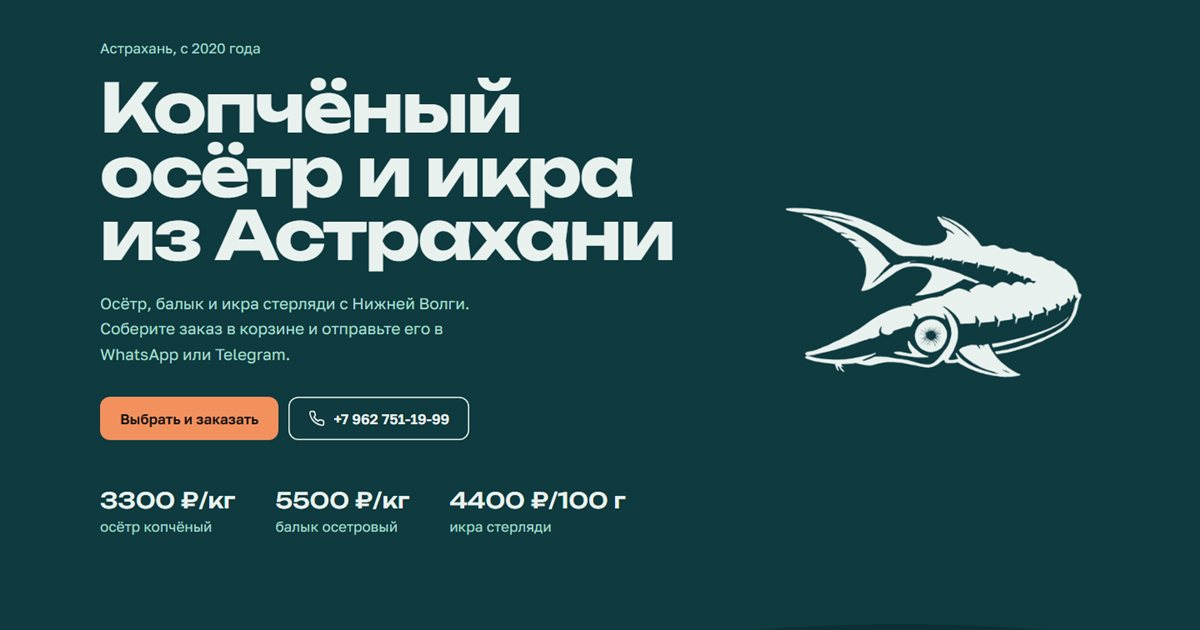
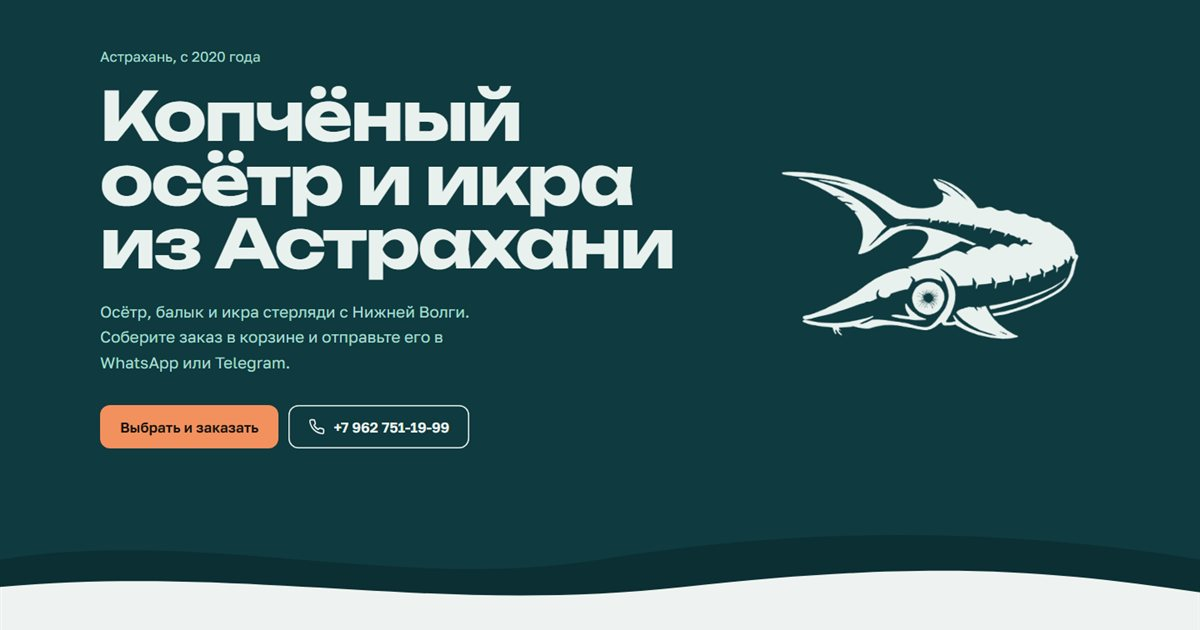
Убран крупный номер и цены с первого экрана, блок «Заказ уже написан за вас» с живым окном чата

diff --git a/styles.css b/styles.css
@@ -10,6 +10,9 @@
   --color-line: #2c5a5e;
   --color-line-ink: #cfdcd8;
   --color-accent: #f2915e;    /* цвет балыка: главная кнопка и цены */
+  --color-on-accent: #1a1410; /* текст на акценте */
+  --color-photo: #efe9df;     /* подложка под фото, пока грузится */
+  --color-read: #2f8f7a;      /* галочки «прочитано» в окне чата */
   --font-display: "Unbounded", system-ui, sans-serif;
   --font-body: "Golos Text", system-ui, sans-serif;
   --space-section: clamp(72px, 10vw, 140px);
@@ -32,7 +35,7 @@ button { font: inherit; color: inherit; }
 /* Кнопки */
 .btn { display: inline-flex; align-items: center; justify-content: center; gap: 10px; min-height: 52px; padding: 0 24px; border: 0; border-radius: var(--radius); font-weight: 600; text-decoration: none; cursor: pointer; transition: background-color .15s var(--ease), transform .15s var(--ease); }
 .btn:active { transform: scale(.98); }
-.btn--accent { background: var(--color-accent); color: #1a1410; }
+.btn--accent { background: var(--color-accent); color: var(--color-on-accent); }
 .btn--accent:hover { background: #f6a77b; }
 .btn--ghost { background: transparent; color: inherit; box-shadow: inset 0 0 0 1.5px currentColor; }
 .btn--ghost:hover { background: rgba(233, 241, 238, .08); }
@@ -49,7 +52,7 @@ button { font: inherit; color: inherit; }
 .nav a:hover { color: var(--color-text); }
 .cart-btn { display: inline-flex; align-items: center; gap: 8px; min-height: 44px; padding: 0 16px; border: 0; border-radius: 999px; background: rgba(233, 241, 238, .1); cursor: pointer; transition: background-color .15s; }
 .cart-btn:hover { background: rgba(233, 241, 238, .18); }
-.cart-btn__count { min-width: 22px; height: 22px; padding: 0 6px; border-radius: 11px; background: var(--color-accent); color: #1a1410; font: 600 13px/22px var(--font-body); text-align: center; }
+.cart-btn__count { min-width: 22px; height: 22px; padding: 0 6px; border-radius: 11px; background: var(--color-accent); color: var(--color-on-accent); font: 600 13px/22px var(--font-body); text-align: center; }
 .cart-btn__count.bump { animation: bump .3s var(--ease); }
 @keyframes bump { 50% { transform: scale(1.25); } }
 
@@ -64,8 +67,6 @@ button { font: inherit; color: inherit; }
 .hero h1 { font-size: clamp(38px, 5.6vw, 84px); max-width: 14ch; letter-spacing: -.03em; }
 .hero__lead { max-width: 42ch; color: var(--color-muted); font-size: 19px; margin: 28px 0 36px; }
 .hero__actions { display: flex; flex-wrap: wrap; gap: 12px; }
-.hero__prices { display: flex; flex-wrap: wrap; gap: 20px 48px; list-style: none; padding: 0; margin: 56px 0 0; color: var(--color-muted); }
-.hero__prices b { display: block; color: var(--color-text); font: 500 clamp(20px, 2vw, 26px)/1.3 var(--font-display); }
 .wave { position: absolute; left: 0; width: 100%; display: block; }
 .wave--hero { bottom: -1px; height: clamp(90px, 16vh, 180px); }
 .wave__back { fill: var(--color-deep); }
@@ -77,7 +78,7 @@ button { font: inherit; color: inherit; }
 .price__head h2 { font-size: clamp(40px, 6vw, 80px); }
 .price__head p { color: var(--color-muted-ink); max-width: 44ch; }
 .goods { list-style: none; padding: 0; margin: 0; border-top: 2px solid var(--color-ink); }
-.good__photo { width: 100%; aspect-ratio: 300 / 168; object-fit: cover; border-radius: var(--radius); background: #efe9df; }
+.good__photo { width: 100%; aspect-ratio: 300 / 168; object-fit: cover; border-radius: var(--radius); background: var(--color-photo); }
 .good { display: grid; grid-template-columns: 180px minmax(0, 1fr) auto auto; gap: 16px 36px; align-items: center; padding: 32px 0; border-bottom: 1px solid var(--color-line-ink); }
 .good__name { font: 700 clamp(24px, 2.6vw, 34px)/1.05 var(--font-display); letter-spacing: -.02em; }
 .good__unit { color: var(--color-muted-ink); margin-top: 8px; }
@@ -100,12 +101,21 @@ button { font: inherit; color: inherit; }
 .steps h3 { font-size: 22px; line-height: 1.15; margin-bottom: 12px; }
 .steps p { color: var(--color-muted); }
 
-/* Контакты */
-.contacts { padding: 0 var(--gutter) var(--space-section); }
-.contacts h2 { font-size: clamp(22px, 2.4vw, 30px); color: var(--color-muted); font-weight: 500; }
-.contacts__phone { display: inline-block; margin: 20px 0 36px; font: 700 clamp(36px, 7.5vw, 112px)/1 var(--font-display); letter-spacing: -.04em; text-decoration: none; white-space: nowrap; }
-.contacts__phone:hover { color: var(--color-accent); }
-.contacts__actions { display: flex; flex-wrap: wrap; gap: 12px; }
+/* Заказ в чате: слева текст и кнопки, справа окно мессенджера с живым текстом заказа */
+.chat { display: grid; grid-template-columns: minmax(0, 1fr) minmax(0, 1fr); gap: clamp(40px, 6vw, 96px); align-items: center; padding: 0 var(--gutter) var(--space-section); }
+.chat h2 { font-size: clamp(34px, 4.4vw, 60px); }
+.chat__text p { color: var(--color-muted); max-width: 40ch; margin: 24px 0 32px; font-size: 18px; }
+.chat__actions { display: flex; flex-wrap: wrap; gap: 12px; }
+.chat__window { margin: 0; border-radius: 28px; background: var(--color-deep); padding: 0 0 28px; overflow: hidden; transform: rotate(1.5deg); transition: transform .3s var(--ease); }
+.chat__window:hover { transform: none; }
+.chat__bar { display: flex; align-items: center; gap: 12px; padding: 16px 22px; border-bottom: 1px solid var(--color-line); }
+.chat__bar img { width: 52px; height: auto; }
+.chat__bar span { display: grid; line-height: 1.25; }
+.chat__bar small { color: var(--color-muted); font-size: 14px; }
+.chat__bubble { position: relative; margin: 28px 22px 0 auto; max-width: 88%; width: fit-content; padding: 14px 16px 10px; border-radius: 18px 18px 4px 18px; background: var(--color-ice); color: var(--color-ink); }
+.chat__bubble p { white-space: pre-line; font-size: 15px; line-height: 1.5; }
+.chat__time { display: flex; justify-content: flex-end; align-items: center; gap: 4px; margin-top: 6px; font-size: 12px; color: var(--color-muted-ink); }
+.chat__time .ic { width: 16px; height: 16px; color: var(--color-read); }
 
 /* Подвал */
 .foot { position: relative; background: var(--color-deep); color: var(--color-muted); padding: 48px var(--gutter) 40px; }
@@ -165,11 +175,13 @@ button { font: inherit; color: inherit; }
   .steps { grid-template-columns: 1fr; gap: 40px; }
   .steps li, .steps li + li { padding: 0; border: 0; }
   .steps__n { margin-bottom: 12px; }
+  .chat { grid-template-columns: 1fr; }
+  .chat__window { transform: none; }
 }
 @media (max-width: 480px) {
   .cart-btn__label { display: none; }
   .hero__actions .btn { flex: 1 1 100%; }
   .cart__send { grid-template-columns: 1fr; }
-  .contacts__actions .btn { flex: 1 1 100%; }
+  .chat__actions .btn { flex: 1 1 100%; }
 }
 @media (prefers-reduced-motion: reduce) { *, *::before, *::after { animation: none !important; transition: none !important; scroll-behavior: auto !important; } }

diff --git a/index.html b/index.html
@@ -33,6 +33,7 @@
     <symbol id="i-phone" viewBox="0 0 24 24"><path d="M22 16.92v3a2 2 0 0 1-2.18 2 19.79 19.79 0 0 1-8.63-3.07 19.5 19.5 0 0 1-6-6 19.79 19.79 0 0 1-3.07-8.67A2 2 0 0 1 4.11 2h3a2 2 0 0 1 2 1.72 12.84 12.84 0 0 0 .7 2.81 2 2 0 0 1-.45 2.11L8.09 9.91a16 16 0 0 0 6 6l1.27-1.27a2 2 0 0 1 2.11-.45 12.84 12.84 0 0 0 2.81.7A2 2 0 0 1 22 16.92z"/></symbol>
     <symbol id="i-chat" viewBox="0 0 24 24"><path d="M7.9 20A9 9 0 1 0 4 16.1L2 22Z"/></symbol>
     <symbol id="i-send" viewBox="0 0 24 24"><path d="M14.54 21.69a.5.5 0 0 0 .94-.03l6.5-19a.5.5 0 0 0-.64-.64l-19 6.5a.5.5 0 0 0-.03.94l7.93 3.18a2 2 0 0 1 1.11 1.11z"/><path d="m21.85 2.15-10.94 10.94"/></symbol>
+    <symbol id="i-checks" viewBox="0 0 24 24"><path d="M18 6 7 17l-5-5"/><path d="m22 10-7.5 7.5L13 16"/></symbol>
     <symbol id="i-minus" viewBox="0 0 24 24"><path d="M5 12h14"/></symbol>
     <symbol id="i-plus" viewBox="0 0 24 24"><path d="M5 12h14"/><path d="M12 5v14"/></symbol>
     <symbol id="i-x" viewBox="0 0 24 24"><path d="M18 6 6 18"/><path d="m6 6 12 12"/></symbol>
@@ -44,7 +45,7 @@
     <nav class="nav" aria-label="Разделы">
       <a href="#price">Прайс</a>
       <a href="#how">Как заказать</a>
-      <a href="#contacts">Контакты</a>
+      <a href="#contacts">Заказ в чате</a>
     </nav>
     <button class="cart-btn" type="button" data-open-cart aria-label="Открыть корзину">
       <svg class="ic"><use href="#i-bag"/></svg>
@@ -64,11 +65,6 @@
           <a class="btn btn--accent" href="#price">Выбрать и заказать</a>
           <a class="btn btn--ghost" href="tel:+79627511999"><svg class="ic"><use href="#i-phone"/></svg>+7 962 751-19-99</a>
         </div>
-        <ul class="hero__prices" aria-label="Цены">
-          <li><b>3300 ₽/кг</b>осётр копчёный</li>
-          <li><b>5500 ₽/кг</b>балык осетровый</li>
-          <li><b>4400 ₽/100 г</b>икра стерляди</li>
-        </ul>
       </div>
       <svg class="wave wave--hero" viewBox="0 0 1440 220" preserveAspectRatio="none" aria-hidden="true">
         <path class="wave__back" d="M0 120 C240 60 480 180 720 120 S1200 60 1440 120 V220 H0Z"/>
@@ -93,13 +89,25 @@
       </ol>
     </section>
 
-    <section class="contacts" id="contacts" aria-labelledby="contacts-title">
-      <h2 id="contacts-title">Заказать можно и по телефону</h2>
-      <a class="contacts__phone" href="tel:+79627511999">+7 962 751-19-99</a>
-      <div class="contacts__actions">
-        <a class="btn btn--accent" data-wa-plain href="https://wa.me/79627511999" target="_blank" rel="noopener"><svg class="ic"><use href="#i-chat"/></svg>Написать в WhatsApp</a>
-        <a class="btn btn--ghost" data-tg-plain href="https://t.me/+79627511999" target="_blank" rel="noopener"><svg class="ic"><use href="#i-send"/></svg>Написать в Telegram</a>
+    <section class="chat" id="contacts" aria-labelledby="contacts-title">
+      <div class="chat__text">
+        <h2 id="contacts-title">Заказ уже написан за вас</h2>
+        <p>Корзина сама собирает сообщение продавцу: что, сколько и на какую сумму. Справа видно, что придёт в чат. Остаётся нажать «Отправить».</p>
+        <div class="chat__actions">
+          <button class="btn btn--accent" type="button" data-send="wa"><svg class="ic"><use href="#i-chat"/></svg>Отправить в WhatsApp</button>
+          <button class="btn btn--ghost" type="button" data-send="tg"><svg class="ic"><use href="#i-send"/></svg>Отправить в Telegram</button>
+        </div>
       </div>
+      <figure class="chat__window">
+        <figcaption class="chat__bar">
+          <img src="images/logo.png" alt="" width="930" height="534" loading="lazy">
+          <span><b>OSETR FISH</b><small data-preview-label>пример заказа</small></span>
+        </figcaption>
+        <div class="chat__bubble">
+          <p data-preview></p>
+          <span class="chat__time">сейчас <svg class="ic"><use href="#i-checks"/></svg></span>
+        </div>
+      </figure>
     </section>
   </main>
 

diff --git a/app.js b/app.js
@@ -78,7 +78,13 @@ function renderCart() {
       <button class="icon-btn" type="button" data-remove aria-label="Убрать ${g.name}">${icon('trash')}</button>
     </li>`;
   }).join('');
+
+  // Окно чата внизу страницы: пустая корзина — пример, иначе — настоящий текст заказа.
+  $('[data-preview]').textContent = count ? orderText() : orderText(EXAMPLE, false);
+  $('[data-preview-label]').textContent = count ? 'ваш заказ' : 'пример заказа';
 }
+
+const EXAMPLE = { osetr: 1, ikra: 1 };
 
 const round = (n) => Math.round(n * 10) / 10;
 
@@ -138,14 +144,14 @@ function closeCart() {
 document.addEventListener('keydown', (e) => { if (e.key === 'Escape' && !cartEl.hidden) closeCart(); });
 
 // Текст заказа для мессенджера
-function orderText() {
-  const ids = Object.keys(cart);
-  const total = ids.reduce((s, id) => s + byId[id].price * cart[id], 0);
-  const name = $('[data-name]').value.trim();
-  const comment = $('[data-comment]').value.trim();
+function orderText(items = cart, withForm = true) {
+  const ids = Object.keys(items);
+  const total = ids.reduce((s, id) => s + byId[id].price * items[id], 0);
+  const name = withForm ? $('[data-name]').value.trim() : '';
+  const comment = withForm ? $('[data-comment]').value.trim() : '';
   const lines = ids.map((id, i) => {
     const g = byId[id];
-    return `${i + 1}. ${g.name}: ${fmtQty(g, cart[id])} = ${rub(g.price * cart[id])}`;
+    return `${i + 1}. ${g.name}: ${fmtQty(g, items[id])} = ${rub(g.price * items[id])}`;
   });
   return [
     'Здравствуйте! Хочу сделать заказ на сайте OSETR FISH:',
@@ -173,7 +179,11 @@ function fallbackCopy(text) {
 const tgLink = () => TELEGRAM_USERNAME ? `https://t.me/${TELEGRAM_USERNAME}` : `https://t.me/+${PHONE}`;
 
 function sendOrder(where) {
-  if (!Object.keys(cart).length) return;
+  // Корзина пустая — просто открываем чат, без текста заказа.
+  if (!Object.keys(cart).length) {
+    window.open(where === 'wa' ? `https://wa.me/${PHONE}` : tgLink(), '_blank', 'noopener');
+    return;
+  }
   const text = orderText();
   if (where === 'wa') {
     window.open(`https://wa.me/${PHONE}?text=${encodeURIComponent(text)}`, '_blank', 'noopener');
@@ -186,7 +196,8 @@ function sendOrder(where) {
   window.open(tgLink(), '_blank', 'noopener');
 }
 
-document.querySelectorAll('[data-tg-plain]').forEach((a) => { a.href = tgLink(); });
+// Имя и комментарий из корзины сразу видны в окне чата.
+document.addEventListener('input', (e) => { if (e.target.closest('[data-name], [data-comment]')) renderCart(); });
 
 let toastTimer;
 function toast(msg, withCart) {
